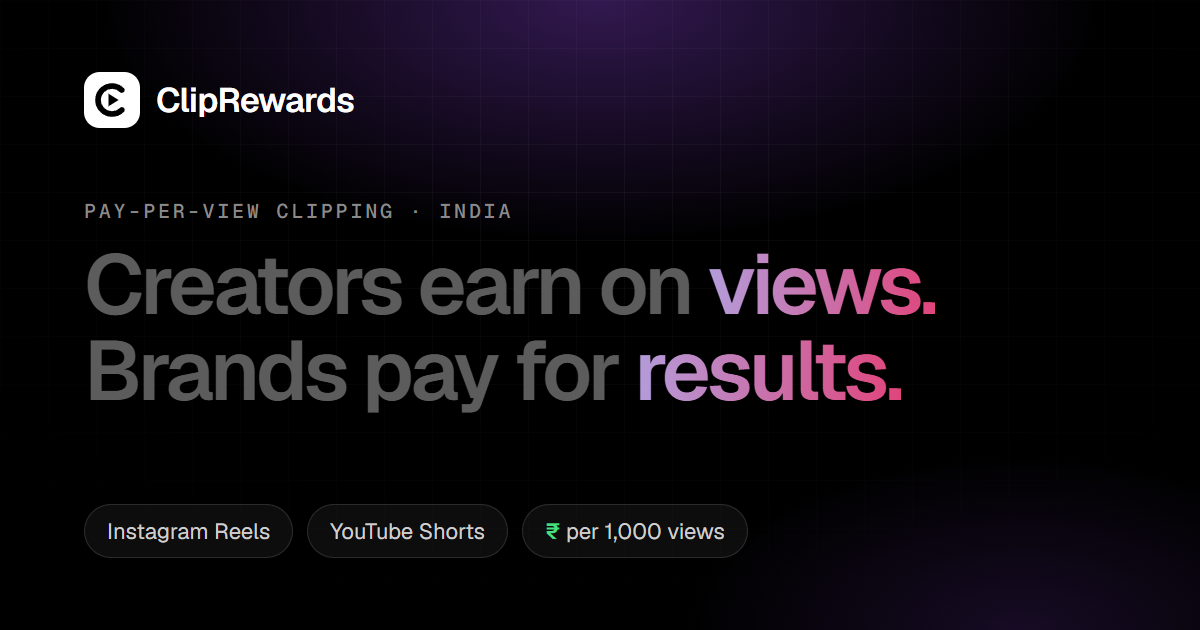
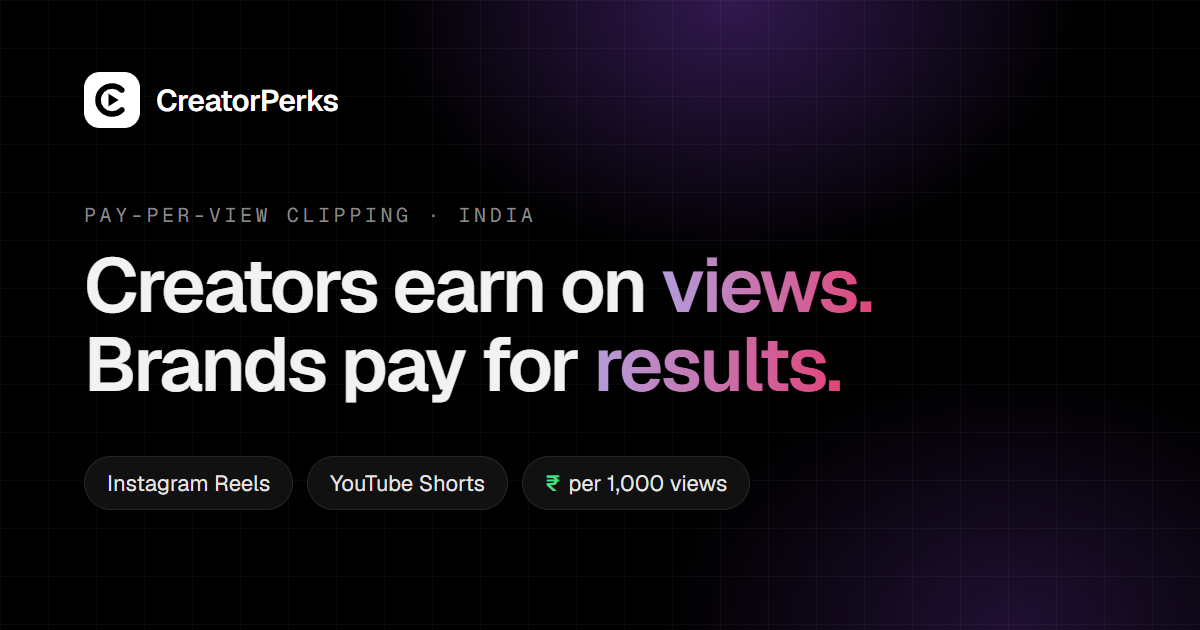
Rename to CreatorPerks on creatorperks.in
User-facing name, page titles, link previews (new og.png), manifest and docs now
say CreatorPerks and point to https://creatorperks.in. Pages opened on the old
onrender.com host redirect to the main domain (API paths excluded for health
checks). Internal ids (database name, Firebase project, image folder) unchanged.

diff --git a/client/index.html b/client/index.html
@@ -5,7 +5,7 @@
     <link rel="icon" type="image/svg+xml" href="/favicon.svg" />
     <meta name="viewport" content="width=device-width, initial-scale=1.0, viewport-fit=cover" />
     <meta name="theme-color" content="#000000" />
-    <meta name="description" content="ClipRewards: brands pay only for real views. Creators earn per 1,000 views on Reels and Shorts." />
+    <meta name="description" content="CreatorPerks: brands pay only for real views. Creators earn per 1,000 views on Reels and Shorts." />
     <link rel="preconnect" href="https://fonts.googleapis.com" />
     <link rel="preconnect" href="https://fonts.gstatic.com" crossorigin />
     <link href="https://fonts.googleapis.com/css2?family=Geist:wght@400;500;600;700&family=Geist+Mono:wght@400;500;600&display=swap" rel="stylesheet" />
@@ -16,17 +16,17 @@
         if (t === 'light' || t === 'auto') document.documentElement.dataset.theme = t;
       } catch (e) {}
     </script>
-    <title>ClipRewards: earn per 1,000 views on Reels and Shorts</title>
+    <title>CreatorPerks: earn per 1,000 views on Reels and Shorts</title>
     <link rel="apple-touch-icon" href="/brand/logo-512.png" />
     <link rel="manifest" href="/site.webmanifest" />
-    <meta name="apple-mobile-web-app-title" content="ClipRewards" />
+    <meta name="apple-mobile-web-app-title" content="CreatorPerks" />
     <!-- Link previews (WhatsApp, Instagram, LinkedIn, X) -->
     <meta property="og:type" content="website" />
-    <meta property="og:site_name" content="ClipRewards" />
-    <meta property="og:title" content="ClipRewards: creators earn on views, brands pay for results" />
+    <meta property="og:site_name" content="CreatorPerks" />
+    <meta property="og:title" content="CreatorPerks: creators earn on views, brands pay for results" />
     <meta property="og:description" content="Post Reels and Shorts for brands and earn per 1,000 real views. Brands pay only for verified views." />
-    <meta property="og:url" content="https://cliprewards.onrender.com/" />
-    <meta property="og:image" content="https://cliprewards.onrender.com/og.png" />
+    <meta property="og:url" content="https://creatorperks.in/" />
+    <meta property="og:image" content="https://creatorperks.in/og.png" />
     <meta property="og:image:width" content="1200" />
     <meta property="og:image:height" content="630" />
     <meta name="twitter:card" content="summary_large_image" />

diff --git a/server/src/app.js b/server/src/app.js
@@ -23,6 +23,23 @@ function securityHeaders(req, res, next) {
   next();
 }
 
+/**
+ * Pages opened on the old host (e.g. cliprewards.onrender.com) move to the main domain
+ * (CLIENT_ORIGIN), so old links keep working and sign-in stays on one site.
+ * API calls are left alone (Render's health check uses the onrender host).
+ */
+function redirectToMainDomain(req, res, next) {
+  if (!config.isProd || !/\.onrender\.com$/i.test(req.hostname) || req.path.startsWith('/api/')) return next();
+  let main;
+  try {
+    main = new URL(config.clientOrigin);
+  } catch {
+    return next();
+  }
+  if (main.hostname === req.hostname || !['GET', 'HEAD'].includes(req.method)) return next();
+  return res.redirect(301, `${main.origin}${req.originalUrl}`);
+}
+
 // Jest sets NODE_ENV=test; tests sign in many times, so limits are off there.
 function createApp({ rateLimits = process.env.NODE_ENV !== 'test', serveClient = config.isProd } = {}) {
   const app = express();
@@ -30,6 +47,7 @@ function createApp({ rateLimits = process.env.NODE_ENV !== 'test', serveClient =
   app.set('trust proxy', 1);
   app.disable('x-powered-by');
   app.use(securityHeaders);
+  app.use(redirectToMainDomain);
   app.use(
     cors({
       // Same-origin requests send no Origin header; cross-origin only from known sites.

diff --git a/client/src/ui/index.jsx b/client/src/ui/index.jsx
@@ -305,7 +305,7 @@ export function PageHeader({ title, subtitle, actions, eyebrow }) {
   );
 }
 
-/** ClipRewards mark: a "C" ring (clip) wrapped around a play button, in a rounded square. */
+/** CreatorPerks mark: a "C" ring (clip) wrapped around a play button, in a rounded square. */
 export function LogoMark({ className = 'size-7' }) {
   return (
     <svg viewBox="0 0 32 32" className={className} aria-hidden>
@@ -320,7 +320,7 @@ export function Logo({ className }) {
   return (
     <span className={cx('inline-flex items-center gap-2 text-[15px] font-semibold tracking-tight', className)}>
       <LogoMark />
-      <span>ClipRewards</span>
+      <span>CreatorPerks</span>
     </span>
   );
 }
@@ -453,7 +453,7 @@ export function Chips({ options, value, onChange, label }) {
 
 /**
  * Profile picture: the Google photo when there is one, otherwise a generated
- * ClipRewards-style pattern icon unique to the person.
+ * CreatorPerks-style pattern icon unique to the person.
  */
 export function Avatar({ name = '', src, className }) {
   if (src) {

diff --git a/client/src/layouts/PublicLayout.jsx b/client/src/layouts/PublicLayout.jsx
@@ -11,7 +11,7 @@ export default function PublicLayout() {
     <div className="min-h-dvh pb-tabbar md:pb-0">
       <header className="sticky top-0 z-20 border-b border-border bg-bg/60 backdrop-blur-xl">
         <div className="mx-auto flex h-16 max-w-6xl items-center justify-between px-4 md:px-6">
-          <Link to="/" aria-label="ClipRewards home">
+          <Link to="/" aria-label="CreatorPerks home">
             <Logo />
           </Link>
           <nav className="hidden items-center gap-1 md:flex" aria-label="Site">
@@ -48,7 +48,7 @@ export default function PublicLayout() {
           <div className="flex flex-wrap items-center gap-x-5 gap-y-2 text-[13px] text-muted">
             <Link to="/privacy" className="hover:text-text">Privacy</Link>
             <Link to="/terms" className="hover:text-text">Terms</Link>
-            <span>© {new Date().getFullYear()} ClipRewards · Pune, India</span>
+            <span>© {new Date().getFullYear()} CreatorPerks · Pune, India</span>
           </div>
         </div>
       </footer>

diff --git a/client/src/pages/Login.jsx b/client/src/pages/Login.jsx
@@ -72,12 +72,12 @@ export default function Login() {
 
   return (
     <div className="pb-tabbar flex min-h-dvh flex-col items-center justify-center px-4 py-10 md:pb-10">
-      <Link to="/" className="mb-10" aria-label="ClipRewards home">
+      <Link to="/" className="mb-10" aria-label="CreatorPerks home">
         <Logo />
       </Link>
 
       <Card className="w-full max-w-sm p-6 md:p-7">
-        <h1 className="text-[22px] font-semibold leading-tight">{isBrand ? 'Launch your first campaign' : 'Welcome to ClipRewards'}</h1>
+        <h1 className="text-[22px] font-semibold leading-tight">{isBrand ? 'Launch your first campaign' : 'Welcome to CreatorPerks'}</h1>
         <p className="mt-2 text-sm text-muted">Continue with your Google account. New here? Your account is created automatically.</p>
 
         <Button

diff --git a/client/src/layouts/AppShell.jsx b/client/src/layouts/AppShell.jsx
@@ -135,7 +135,7 @@ export default function AppShell({ nav, accountTo, section }) {
       {/* Phone top bar: just the logo and the menu, straight on the background */}
       <header className="sticky top-0 z-30 bg-gradient-to-b from-bg via-bg/80 to-transparent px-4 pb-3 pt-3 md:hidden">
         <div className="flex h-12 items-center justify-between">
-          <Link to={nav[0].to} aria-label="ClipRewards home" className="transition-transform active:scale-95">
+          <Link to={nav[0].to} aria-label="CreatorPerks home" className="transition-transform active:scale-95">
             <Logo className="text-base" />
           </Link>
           <button

diff --git a/client/src/lib/firebase.js b/client/src/lib/firebase.js
@@ -135,7 +135,7 @@ export async function connectYouTube() {
       case 'auth/popup-closed-by-user':
       case 'auth/cancelled-popup-request':
         throw new YouTubeConnectError(
-          'The Google window closed before finishing. If you saw “Google hasn’t verified this app”, tap Advanced → Go to ClipRewards, then tick “View your YouTube account”.',
+          'The Google window closed before finishing. If you saw “Google hasn’t verified this app”, tap Advanced → Go to CreatorPerks, then tick “View your YouTube account”.',
           { canRedirect: true }
         );
       case 'auth/user-cancelled':

diff --git a/client/src/lib/social.js b/client/src/lib/social.js
@@ -14,7 +14,7 @@ export const SOCIAL_ERRORS = {
   instagram_cancelled: 'You cancelled the Instagram connection.',
   instagram_expired: 'That took too long. Please try connecting Instagram again.',
   instagram_not_professional: 'Switch your Instagram to a Creator or Business account (free, in Instagram → Settings → Account type), then connect again.',
-  instagram_taken: 'That Instagram account is already connected to another ClipRewards account.',
+  instagram_taken: 'That Instagram account is already connected to another CreatorPerks account.',
   instagram_failed: 'Couldn’t connect Instagram. Please try again.',
 };
 

diff --git a/client/src/components/SocialAccounts.jsx b/client/src/components/SocialAccounts.jsx
@@ -151,7 +151,7 @@ function InstagramAccess({ status, username = '', onDone }) {
             </a>{' '}
             in your browser, logged in as @{username}.
           </li>
-          <li>Go to the <strong className="text-text">Tester invites</strong> tab and tap <strong className="text-text">Accept</strong> for ClipRewards.</li>
+          <li>Go to the <strong className="text-text">Tester invites</strong> tab and tap <strong className="text-text">Accept</strong> for CreatorPerks.</li>
           <li>Come back here and tap <strong className="text-text">Connect</strong>.</li>
         </ol>
       </Notice>

diff --git a/client/src/pages/CampaignDetail.jsx b/client/src/pages/CampaignDetail.jsx
@@ -306,7 +306,7 @@ export default function CampaignDetail({ inApp }) {
           </ListGroup>
 
           <ListGroup title="About the brand" className="mt-8">
-            <ListRow icon={BadgeCheck} title={c.brand?.name} subtitle={`${verticalLabel(c.vertical)} · Verified by ClipRewards`} />
+            <ListRow icon={BadgeCheck} title={c.brand?.name} subtitle={`${verticalLabel(c.vertical)} · Verified by CreatorPerks`} />
             <ListRow icon={Link2} title="Share this campaign" onClick={share} />
           </ListGroup>
 

diff --git a/server/src/config.js b/server/src/config.js
@@ -12,7 +12,7 @@ const originOf = (url) => {
 };
 
 // Public web address of the app. In production the API also serves the web app,
-// so this is the one domain users visit (e.g. https://cliprewards.in).
+// so this is the one domain users visit (e.g. https://creatorperks.in).
 const clientOrigin = (process.env.CLIENT_ORIGIN || process.env.PUBLIC_URL || 'http://localhost:5173').replace(/\/$/, '');
 
 // Instagram sends people back here after "Allow". In production it must be on our own site:

diff --git a/server/src/routes/social.js b/server/src/routes/social.js
@@ -222,7 +222,7 @@ router.post('/youtube/connect', validate(z.object({ accessToken: z.string().min(
     await req.user.save();
     res.json({ account: acc.toPublic() });
   } catch (err) {
-    if (isDup(err)) return res.status(409).json({ error: 'This YouTube channel is already connected to another ClipRewards account' });
+    if (isDup(err)) return res.status(409).json({ error: 'This YouTube channel is already connected to another CreatorPerks account' });
     throw err;
   }
 });
